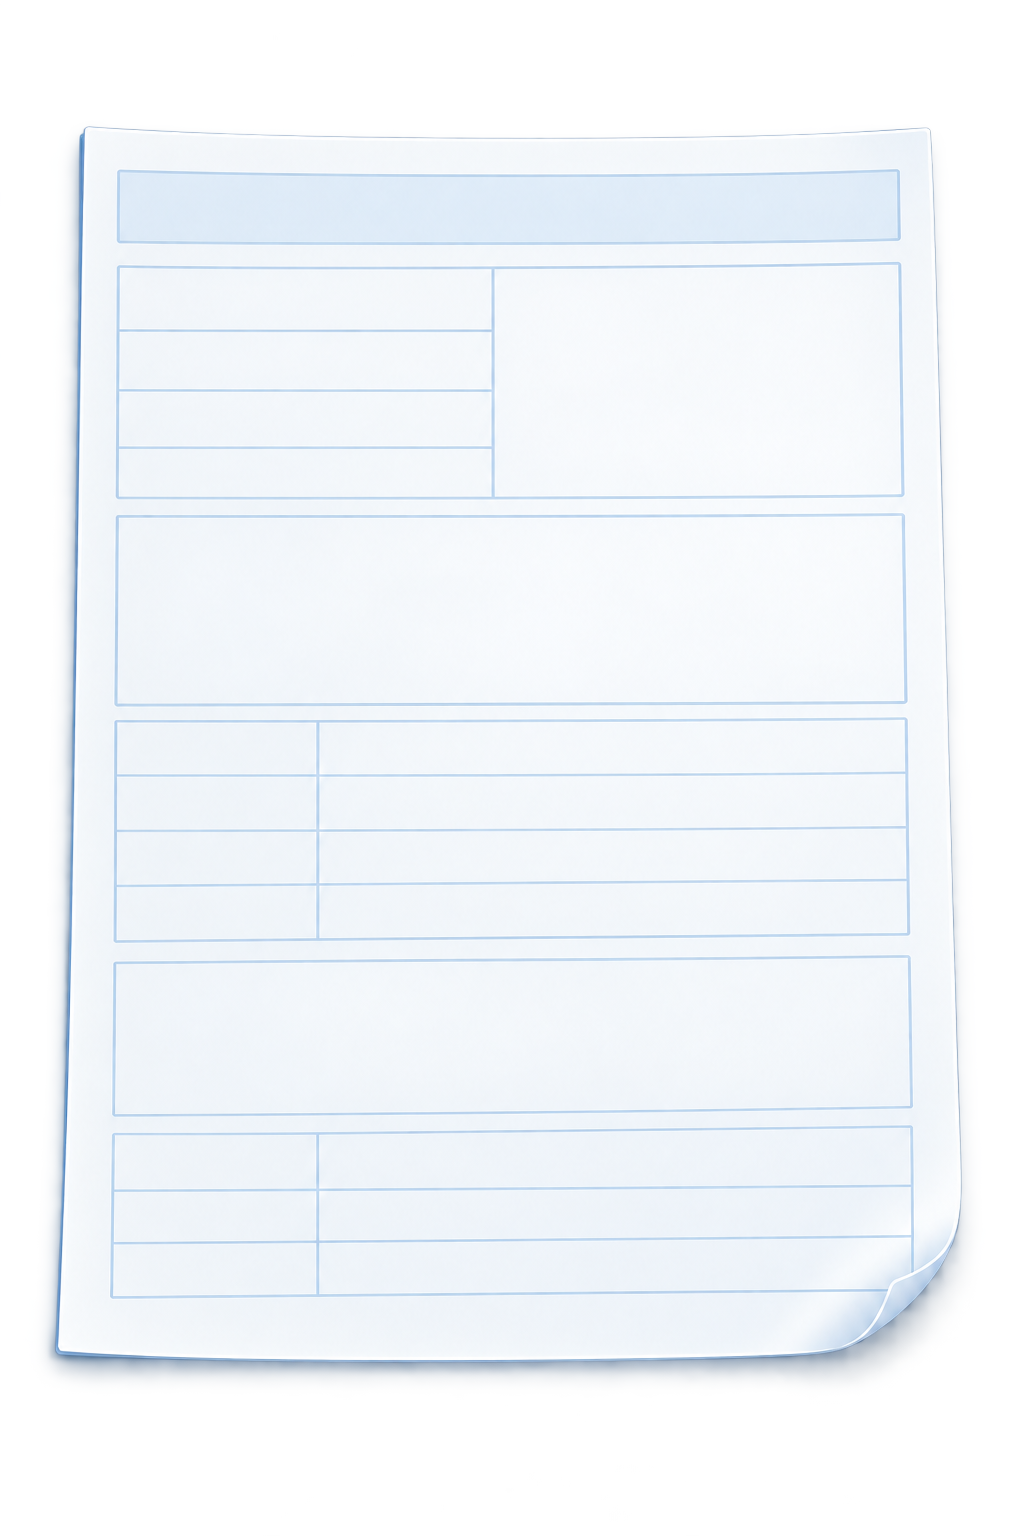
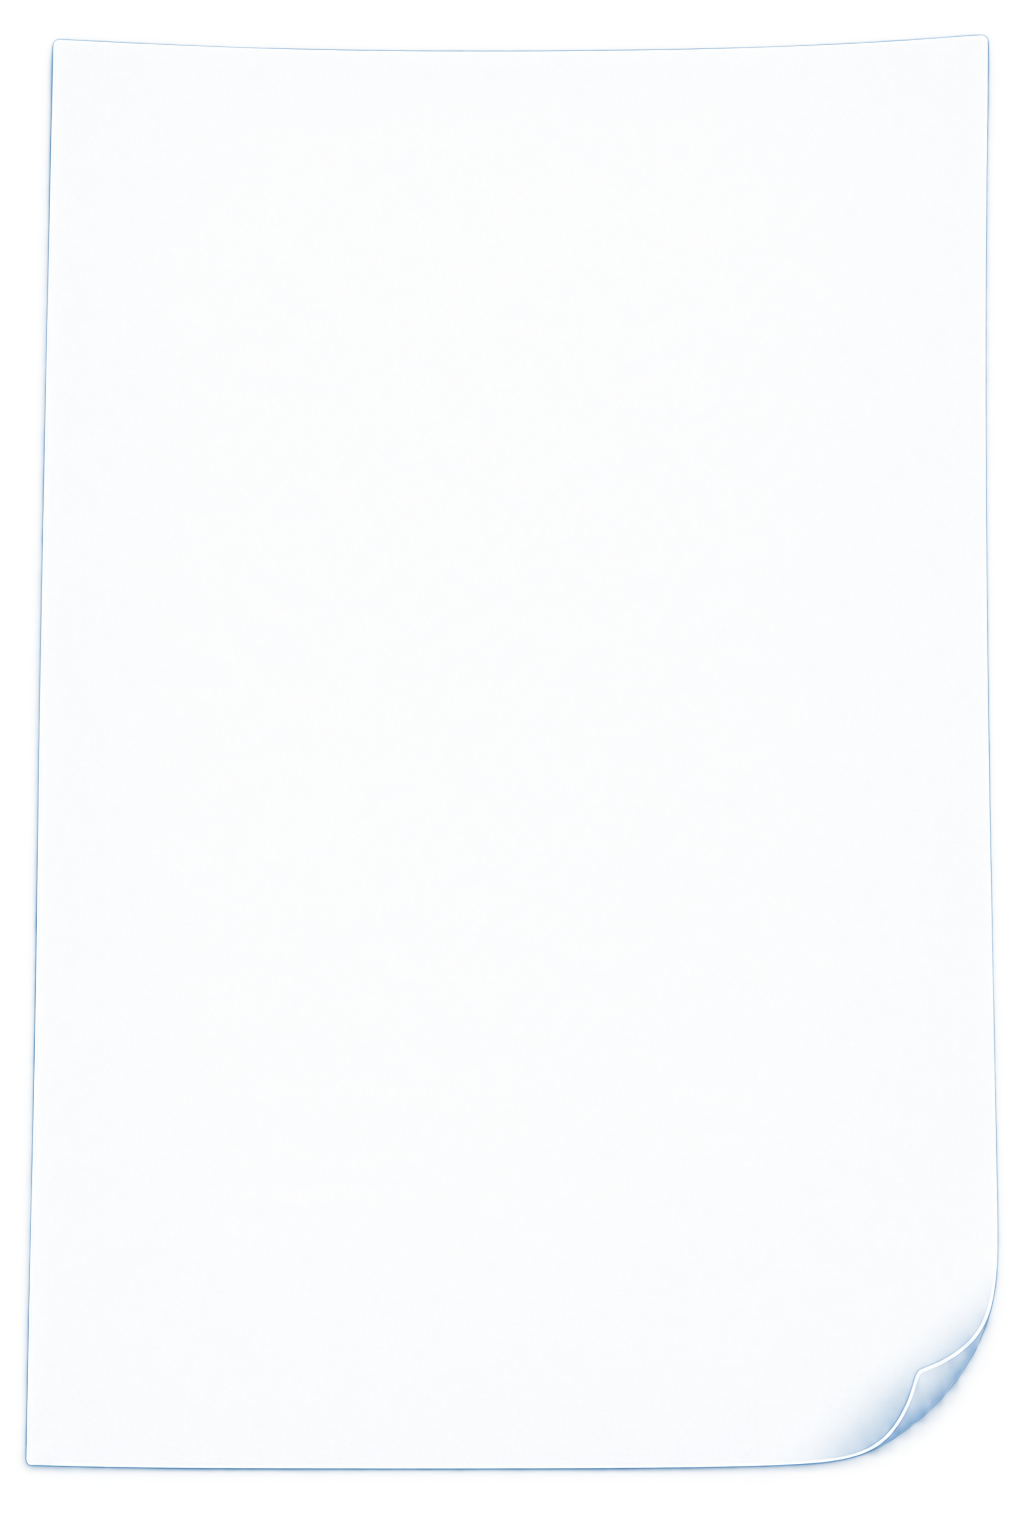
Rebuild Nicky sample request form

diff --git a/transfusion/nicky/style.css b/transfusion/nicky/style.css
@@ -869,7 +869,14 @@ a:focus-visible {
 .tube-asset-wrap,
 .paper-asset-wrap { position: absolute; display: block; }
 .tube-asset-wrap { z-index: 3; left: -7%; bottom: 5%; width: 52%; height: 78%; }
-.paper-asset-wrap { z-index: 2; right: 0; bottom: 4%; width: 73%; height: 77%; }
+.paper-asset-wrap {
+    z-index: 2;
+    right: 0;
+    bottom: 4%;
+    width: auto;
+    height: 77%;
+    aspect-ratio: 2 / 3;
+}
 
 .tube-label-overlay {
     position: absolute;
@@ -878,13 +885,11 @@ a:focus-visible {
     left: 38%;
     width: 24%;
     height: 29%;
-    display: grid;
-    grid-template-columns: minmax(0, 1fr) 16%;
-    gap: 2px;
+    display: block;
     overflow: hidden;
     padding: 2px;
     color: #18272d;
-    background: rgba(255,255,255,.92);
+    background: transparent;
     font-family: Arial, sans-serif;
     font-size: clamp(.25rem, .48vw, .48rem);
     line-height: 1.06;
@@ -894,13 +899,15 @@ a:focus-visible {
 
 .tube-label-copy { min-width: 0; display: flex; flex-direction: column; justify-content: center; gap: 2px; }
 .tube-label-copy > span { position: relative; display: block; overflow-wrap: anywhere; }
-.sample-barcode { background: repeating-linear-gradient(90deg, #111 0 1px, transparent 1px 3px, #111 3px 5px, transparent 5px 7px); }
 
 .paper-request-copy {
     position: absolute;
     z-index: 2;
-    inset: 11% 12% 10% 17%;
-    overflow: hidden;
+    inset: 5% 5.5% 5.5%;
+    display: grid;
+    grid-template-rows: 7% 27% 29% 15% 18%;
+    gap: 1%;
+    overflow: visible;
     color: #162b35;
     font-family: Arial, sans-serif;
     font-size: clamp(.32rem, .55vw, .57rem);
@@ -910,27 +917,34 @@ a:focus-visible {
 }
 
 .paper-request-copy > strong {
-    display: block;
-    margin-bottom: 3px;
-    padding-bottom: 2px;
-    border-bottom: 1px solid #657983;
+    display: flex;
+    align-items: center;
+    justify-content: center;
+    margin: 0;
+    padding: 1px 3px;
+    border: 1px solid #a9cfe4;
+    border-radius: 2px;
+    background: rgba(222, 241, 250, .75);
     font-size: 1.1em;
     text-align: center;
 }
 
 .paper-details-section {
-    position: absolute;
-    right: 0;
-    left: 0;
-    display: block;
+    position: static;
+    display: flex;
+    flex-direction: column;
     overflow: hidden;
+    border: 1px solid #a9cfe4;
+    border-radius: 2px;
 }
 
 .paper-details-section > em {
     display: block;
+    flex: 0 0 auto;
     padding: 1px 3px;
     color: #18495e;
-    background: rgba(208, 235, 247, .68);
+    border-bottom: 1px solid #a9cfe4;
+    background: rgba(208, 235, 247, .78);
     font-size: .93em;
     font-style: normal;
     font-weight: 800;
@@ -939,19 +953,18 @@ a:focus-visible {
     letter-spacing: .04em;
 }
 
-.paper-patient-details { top: 7%; height: 21%; }
-.paper-sample-request { top: 30%; height: 23%; }
-.paper-clinical-details { top: 56%; height: 17%; }
-.paper-collection-details { top: 76%; height: 17%; }
-
 .paper-request-row {
+    flex: 1 1 0;
     display: grid;
-    grid-template-columns: 34% minmax(0, 1fr);
+    grid-template-columns: 27% minmax(0, 1fr);
+    align-items: center;
     gap: 2px;
     padding: 1px 2px;
-    border-bottom: 1px solid rgba(69, 92, 103, .24);
+    border-bottom: 1px solid rgba(111, 169, 199, .5);
     border-radius: 2px;
 }
+
+.paper-request-row:last-child { border-bottom: 0; }
 
 .paper-request-row > b { font-weight: 700; }
 .paper-request-row > span { min-width: 0; overflow-wrap: anywhere; }
@@ -994,9 +1007,9 @@ a:focus-visible {
 
 .sample-station.expanded .station-inspect { bottom: 11%; }
 .sample-station.expanded .tube-asset-wrap { left: -2%; width: 43%; height: 87%; }
-.sample-station.expanded .paper-asset-wrap { right: 4%; width: 67%; height: 88%; }
+.sample-station.expanded .paper-asset-wrap { right: 4%; width: auto; height: 88%; }
 .sample-station.expanded .tube-label-overlay { left: 40%; width: 20%; font-size: clamp(.38rem, .64vw, .62rem); }
-.sample-station.expanded .paper-request-copy { inset: 11% 28% 10% 28%; font-size: clamp(.48rem, .82vw, .76rem); }
+.sample-station.expanded .paper-request-copy { inset: 5% 5.5% 5.5%; font-size: clamp(.48rem, .82vw, .76rem); }
 .sample-station.expanded .station-review-actions { display: flex; }
 .sample-station.expanded .inspect-prompt { display: none; }
 .sample-check-screen.reviewing-sample .sample-station:not(.expanded) { opacity: .32; }

diff --git a/transfusion/nicky/game.js b/transfusion/nicky/game.js
@@ -593,7 +593,6 @@ function tubeLabelMarkup(sample) {
             <span data-sample-field="mrn">${sample.id}${mismatchNote()}</span>
             <span data-sample-field="dob">${sample.dob}${mismatchNote()}</span>
         </span>
-        <span class="sample-barcode" aria-hidden="true"></span>
     `;
 }
 
@@ -611,7 +610,7 @@ function paperRequestMarkup(sample, scenario) {
                 ${paperRow("Name", sample.name, "name")}
                 ${paperRow("MRN", sample.id, "mrn")}
                 ${paperRow("DOB", sample.dob, "dob")}
-                ${paperRow("Location", "Emergency Department")}
+                ${paperRow("Location", "Emergency Dept.")}
             </span>
             <span class="paper-details-section paper-sample-request">
                 <em>Sample request</em>
@@ -645,7 +644,7 @@ function sampleStationMarkup(sample, index, scenario) {
                     <span class="tube-label-overlay">${tubeLabelMarkup(sample)}</span>
                 </span>
                 <span class="paper-asset-wrap">
-                    <img src="assets/screen-3/paper-request.png" alt="Paper blood-request form">
+                    <img src="assets/screen-3/paper-request.png?v=3" alt="Paper blood-request form">
                     ${paperRequestMarkup(sample, scenario)}
                 </span>
                 <span class="inspect-prompt">Tap to inspect</span>
